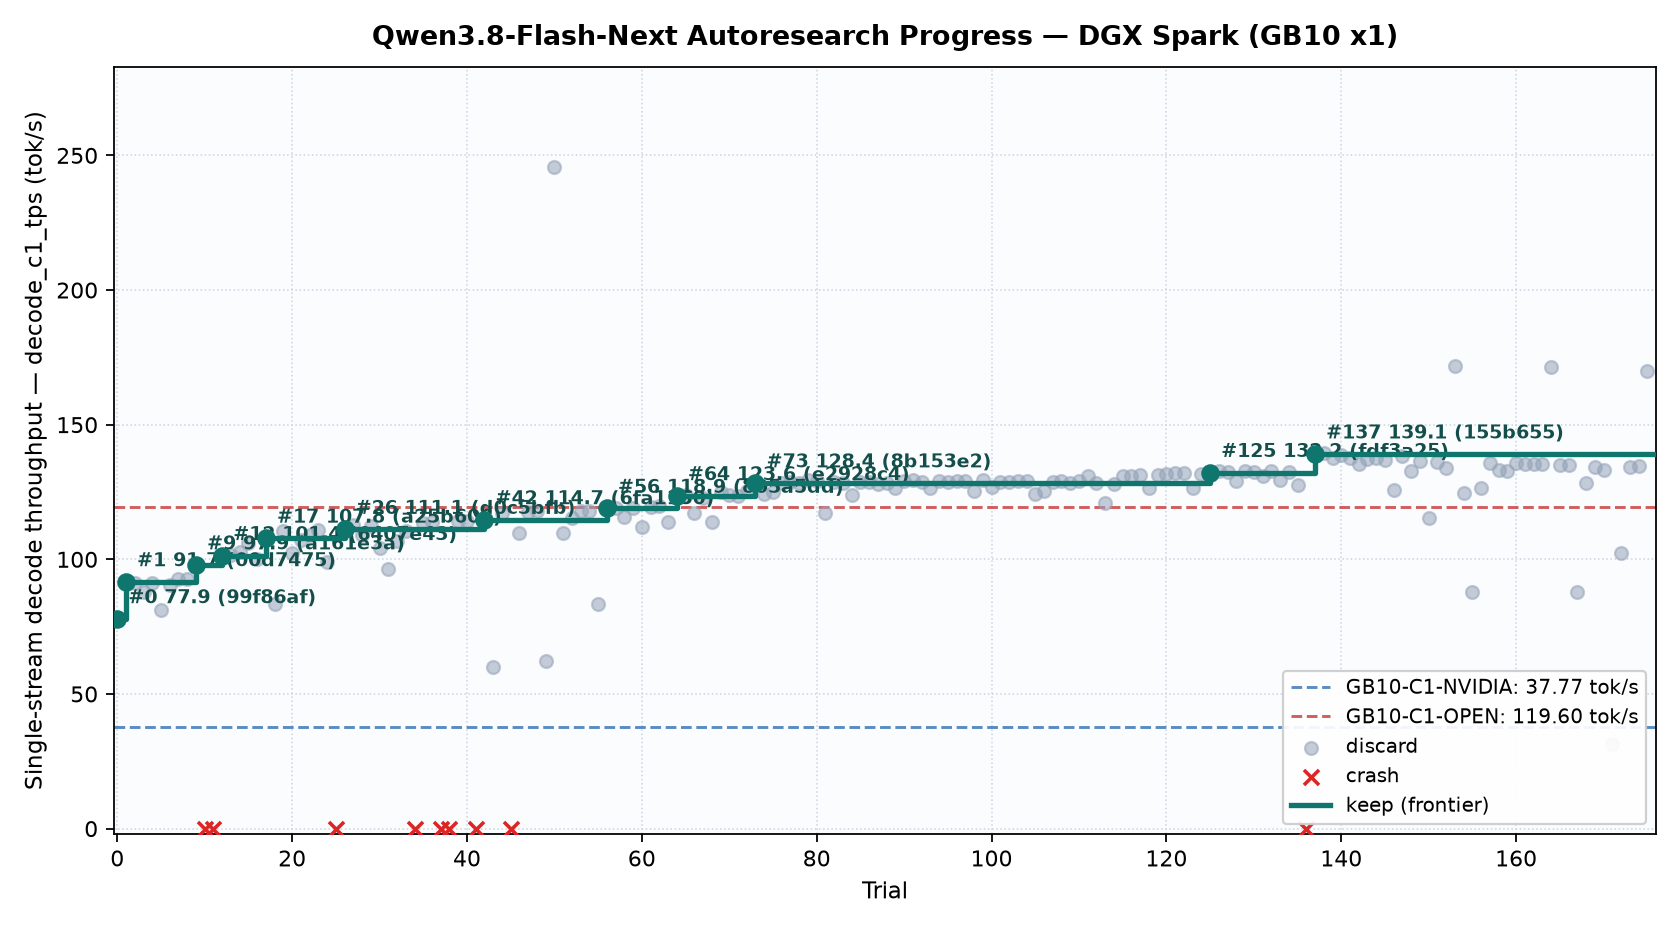
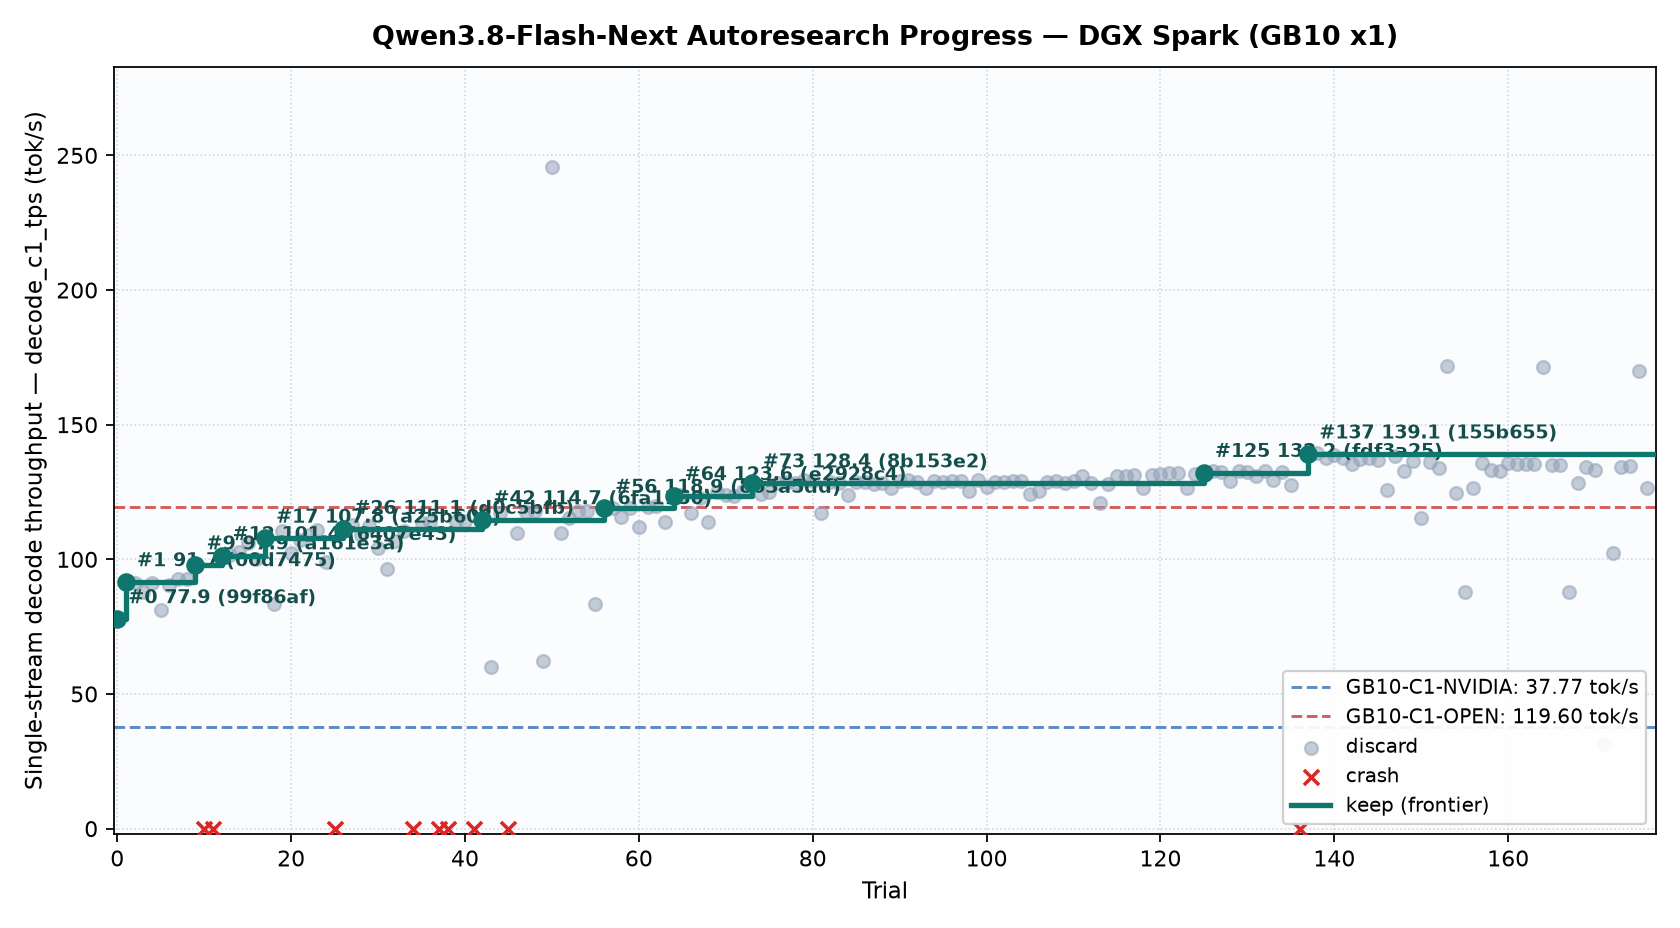
spark trial 176: discard

diff --git a/records/research-log.md b/records/research-log.md
@@ -205,3 +205,4 @@ Deprioritized: **3-bit expert weights** (Hibana +43% but GPQA -0.3, LCB -2.3; on
 | 2026-11-22 03:21 | 173 (new stack) | <https://github.com/prestonlogan/Qwen3.8-Flash-Next-Single-DGX-Spark-Ultrafast/blob/f78aa363d05a5dd351d932024822064b079ceffc/docs/optimization-notes.md> | Reviewed all six release, commit and PR feeds. The reported 131072-row draft cap is wider than the current 65536-row scan. Trial 172 retained hashes but lost 26.55% at C1. | Keep the parent stopping rule and vocabulary. Test a compact pairwise sign lookup that shares activation sums and differences across output rows. |
 | 2026-11-22 03:29 | 174 (new stack) | <https://github.com/sgl-project/sglang/pull/49795> | Reviewed all six release, commit and PR feeds. Trial 173 recorded 134.36 C1 (discard, hash_match=1). The upstream SM12x cuTile path targets MiniMax. Prior trial 80 bounded only the down projection grid. | Apply two waves of persistent CTAs to the lossless packed gate and up path. Each block strides over the number of tiles produced by the router. |
 | 2026-11-22 03:38 | 175 (new stack) | <https://github.com/sharar-project/hibana/blob/v0.1.0/docs/flashnext.md> | Reviewed all six release, commit and PR feeds. Trial 174 recorded 134.74 C1 (discard, hash_match=1). Trial 153 improved C1 with its 8% singleton mass budget and narrowly missed the C8 floor. | Retest that routing rule with the shared expert launched before fused top-k planning. The scheduling change can overlap independent work at parallel decode. |
+| 2026-11-22 03:44 | 176 (new stack) | <https://github.com/sharar-project/hibana/blob/v0.1.0/hibana/engine/depth.py> | Reviewed all six release, commit and PR feeds. Trial 175 recorded 169.86 C1 (discard, hash_match=0). Charging more for later proposals in trial 172 truncated useful chains. | Keep the parent extension threshold. When an already scored terminal token clears the cumulative confidence floor, send it to normal target verification without drafting another token. |
